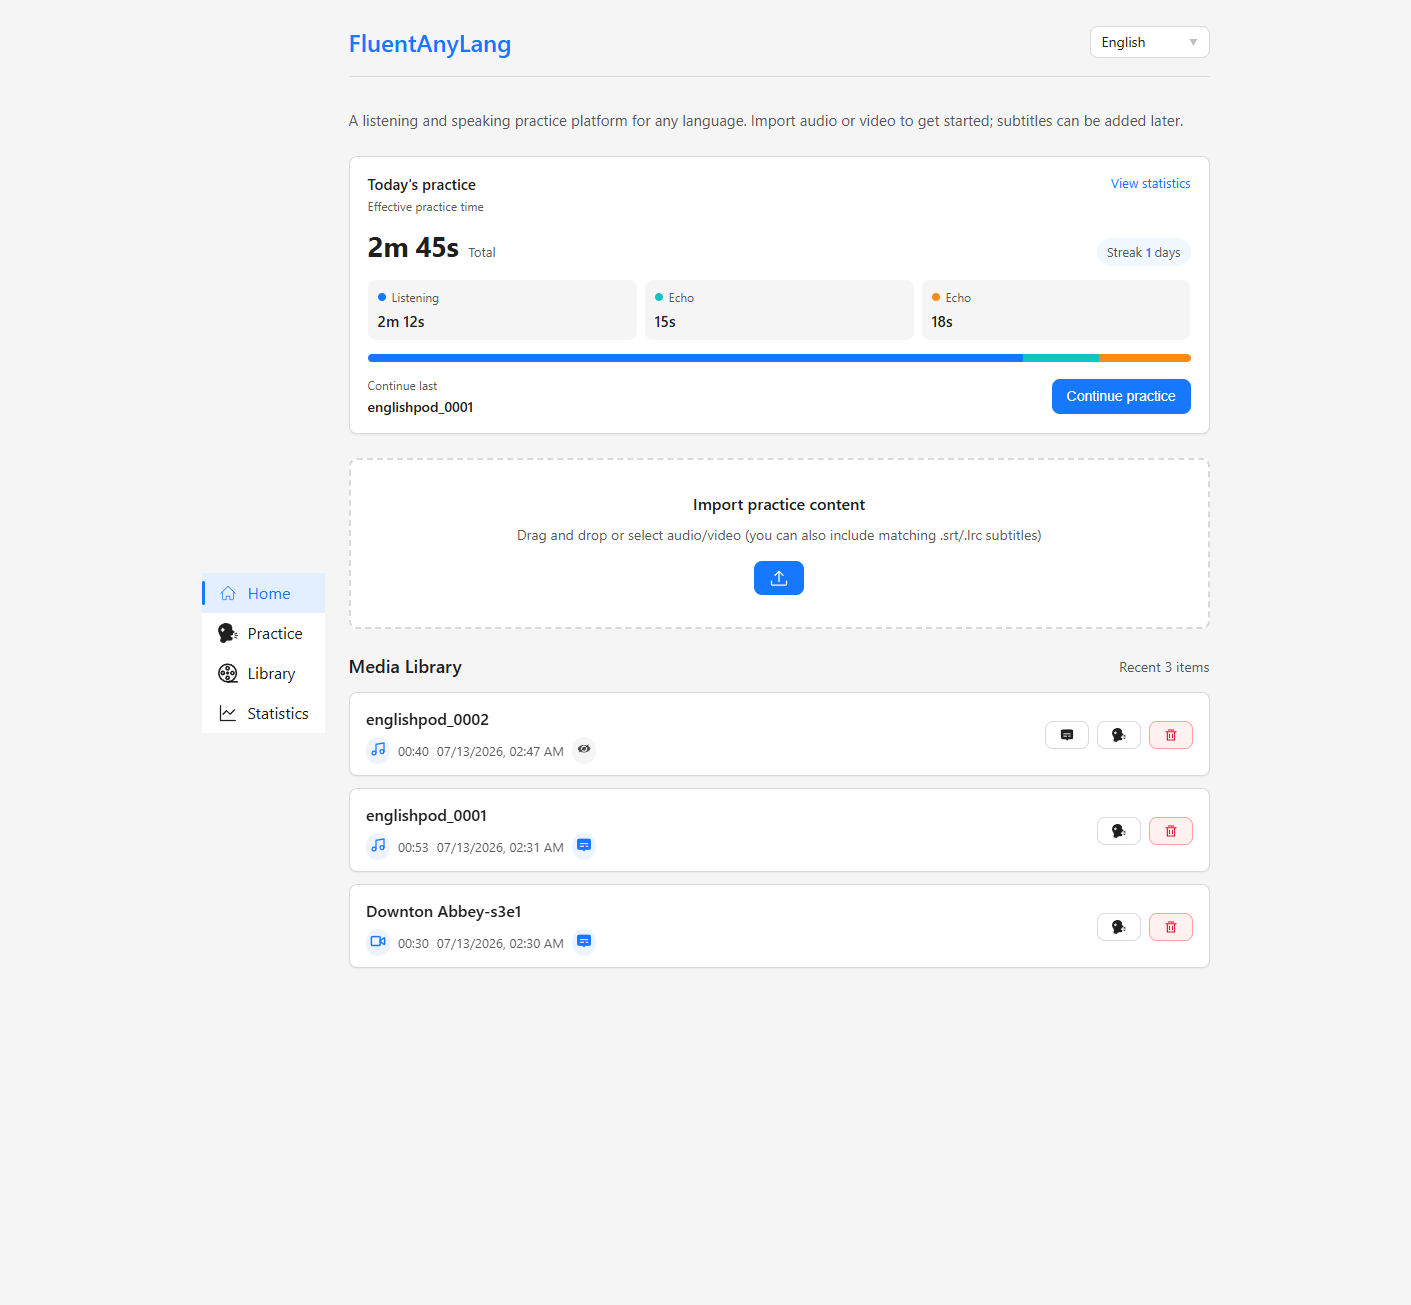
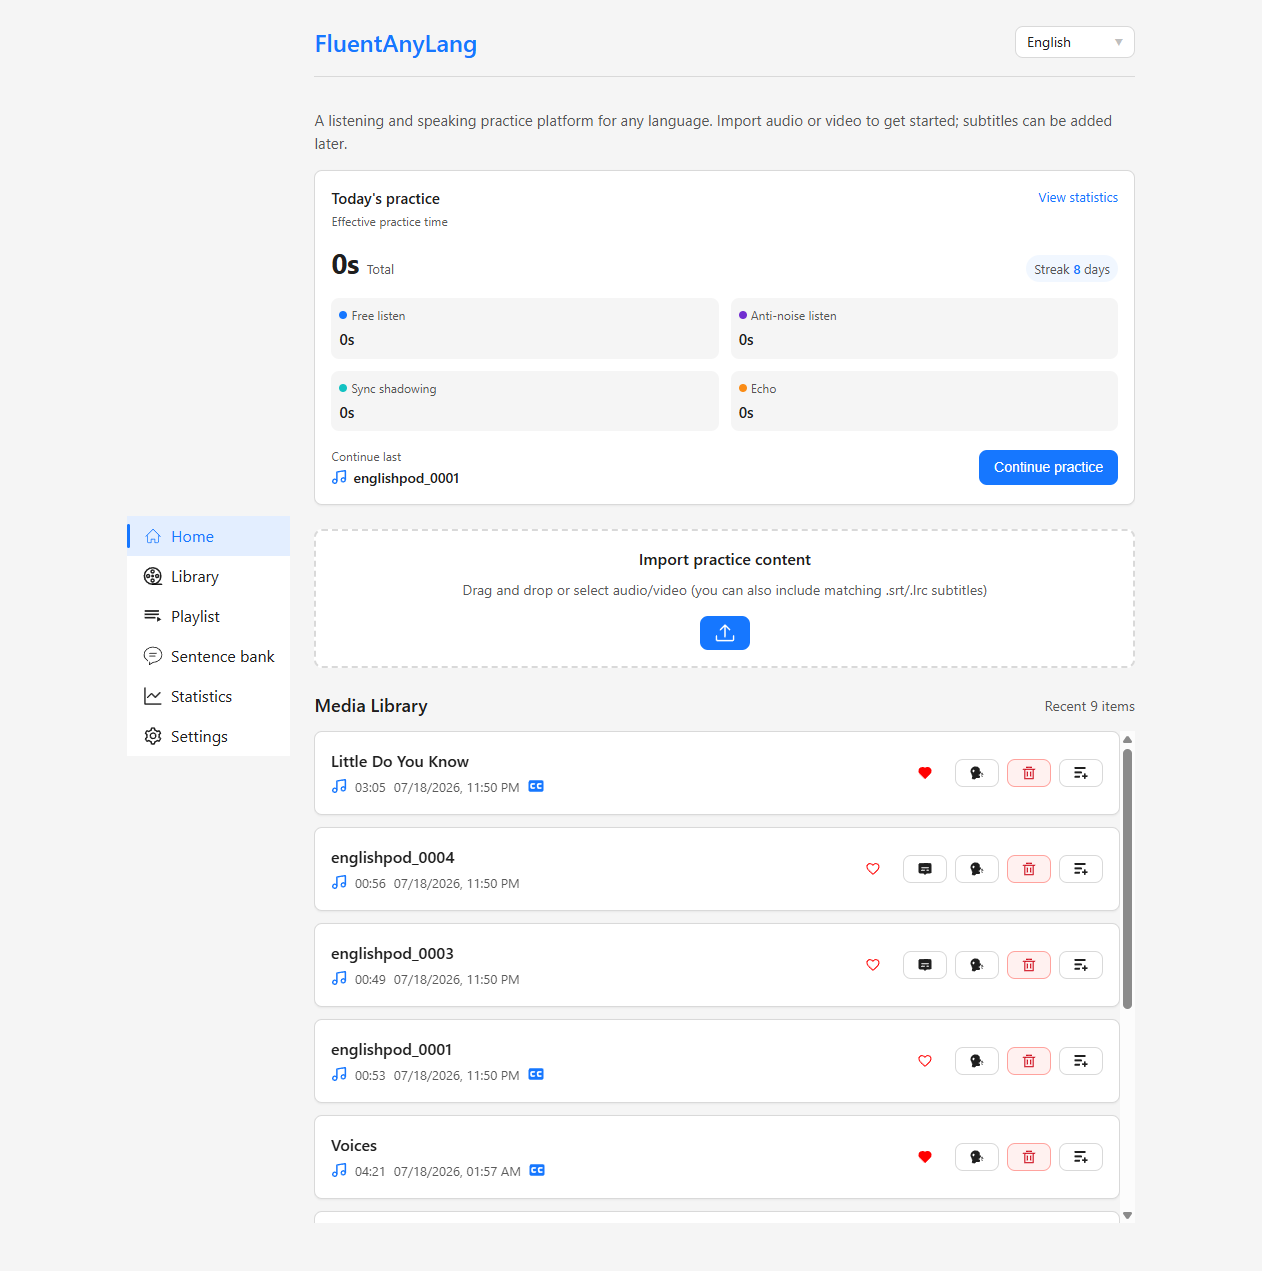
chore(release): bump version to 0.2.0 and update CHANGELOG

diff --git a/src/components/player/practice-view.test.ts b/src/components/player/practice-view.test.ts
@@ -162,6 +162,8 @@ describe('practice-view', () => {
   }
 
   async function switchToEchoMode(el: PracticeViewInternals) {
+    await settleView(el);
+
     const speakingButton = Array.from(el.shadowRoot!.querySelectorAll('ui-button')).find((button) =>
       button.textContent?.includes('口语'),
     );
@@ -169,10 +171,12 @@ describe('practice-view', () => {
     await el.updateComplete;
 
     const echoButton = Array.from(el.shadowRoot!.querySelectorAll('ui-button')).find((button) =>
-      button.textContent?.includes('Echo'),
+      button.textContent?.includes('回声跟读'),
     );
+    expect(echoButton).toBeDefined();
     echoButton?.click();
     await el.updateComplete;
+    await settleView(el);
   }
 
   it('renders practice layout shell', async () => {
@@ -537,7 +541,7 @@ describe('practice-view', () => {
     await switchToEchoMode(el);
 
     const summary = el.shadowRoot!.querySelector('.tips-summary');
-    expect(summary?.textContent).toContain('字幕行麦克风');
+    expect(summary?.textContent).toContain('字幕行右侧【麦克风】');
     expect(
       Array.from(el.shadowRoot!.querySelectorAll('ui-button')).some((button) =>
         button.textContent?.includes('说明'),

diff --git a/README.md b/README.md
@@ -2,36 +2,63 @@
 
 **English** | [中文](./README.zh-CN.md)
 
-A listening and speaking practice web app for any language. Import your own audio or video, practice sentence by sentence, and keep everything on your device.
+Bring your own audio or video — any language, any material — and practice listening and speaking **sentence by sentence**. Everything stays on your device: no account, no cloud upload.
 
 **[Live Demo](https://fal.jimelijah.com/)** · [GitHub](https://github.com/Jim-Elijah/fluent-any-lang)
 
+## Why FluentAnyLang?
+
+Most language apps lock you into their curriculum. FluentAnyLang is built for **learners who already have the content they care about** — podcasts, dramas, lectures, songs — and want a focused loop of replay, shadowing, and self-review.
+
+- **Your materials, any language** — Import audio/video with `.srt` / `.lrc` subtitles (add later if needed). Bilingual lines are supported.
+- **Sentence-driven practice** — Jump, loop, or pause by subtitle line; speaking modes tie every take to the exact sentence.
+- **Local-first & private** — Media, recordings, and stats live in IndexedDB. Export a ZIP backup to migrate devices; nothing is uploaded to a server.
+- **Installable PWA** — Add to home screen or desktop; app shell works offline after the first visit. Updates are prompted so practice is not interrupted mid-session.
+
 ## Features
 
-- **Any language, your materials** — Import audio/video (optionally with matching `.srt` / `.lrc` subtitles). Subtitles can be added later.
-- **Listening practice** — Playback speed, single-sentence pause, sentence loop, sleep timer, and more.
-- **Speaking practice**
-  - **Shadowing** — Synchronized shadowing with recording and countdown cues.
-  - **Echo** — Hear the original line first, then record; keep multiple takes per sentence.
-- **Subtitle-driven workflow** — Jump by sentence, compare original audio with your recordings (including sync play).
-- **Media & recording libraries** — Search, sort, filter, and export.
-- **Practice statistics** — Effective practice time, streaks, mode mix, and trends (not wall-clock time).
-- **Local-first & private** — Media, subtitles, and recordings stay in your browser via IndexedDB; nothing is uploaded to a server.
-- **Installable PWA** — Add to your home screen or desktop; the app shell works offline after the first visit. Updates are prompted so practice is not interrupted mid-session.
-- **UI locales** — Simplified Chinese, English, Japanese, and Traditional Chinese (`@lit/localize`).
+### Listening
+
+- **Free listen** — Playback speed, volume, prev/next sentence, keyboard shortcuts.
+- **Anti-noise listen** — Mix up to 3 ambient noise tracks while listening; optional speed ladder advances after each play-through.
+- **Loop & pause** — Loop track or sentence; pause between sentences by fixed seconds or a percentage of line length.
+- **Sleep timer** — Stop after N minutes or when the current track ends.
+- **Flexible player** — Normal, fixed (floating bar), or mini layout for long sessions.
+
+### Speaking
+
+- **Sync Shadowing** — Record in sync with the original, with countdown cues and a live waveform.
+- **Echo** — Hear the line first, then record; keep multiple takes per sentence and pick the best.
+- **Compare takes** — Play source only, recording only, or **sync play** (sentence-aligned) with waveform review.
+
+### Library & progress
+
+- **Media, recordings & noise libraries** — Search, sort, filter, custom covers, and export.
+- **Playlists & favorites** — Group materials, reorder, and continue the last playlist from the home dashboard.
+- **Sentence bank** — Save individual lines (with clipped audio) and drill them later.
+- **Practice statistics** — Effective practice time (not wall-clock), streaks, mode mix, trends, and media ranking.
+
+### More
+
+- **UI locales** — Simplified Chinese, English, Japanese, and Traditional Chinese.
+- **Backup & migration** — ZIP export/import for recordings, sessions, sentence bank, playlists, settings, and optionally media.
 
 ## Screenshots
 
-![home](./docs/screenshots/home.png)
-![practice](./docs/screenshots/practice.png)
-![library](./docs/screenshots/library.png)
-![statistics](./docs/screenshots/statistics.png)
-
+![home-page](./docs/screenshots/home.png)
+![library-page](./docs/screenshots/library.png)
+![playlist-page](./docs/screenshots/playlist.png)
+![sentence-bank-page](./docs/screenshots/sentence-bank.png)
+![statistics-page](./docs/screenshots/statistics.png)
+![settings-page](./docs/screenshots/settings.gif)
 
 ![home-import-listen](./docs/screenshots/import-and-listen.gif)
 ![practice-listen-advanced-setting](./docs/screenshots/listen-advanced-setting.gif)
+![practive-anti-noise-listen](./docs/screenshots/anti-noise-listen.gif)
 ![practice-speak-shadowing](./docs/screenshots/shadowing.gif)
 ![practice-speak-echo](./docs/screenshots/echo.gif)
+![playlist](./docs/screenshots/playlist.gif)
+![sentence-bank](./docs/screenshots/sentence-bank.gif)
 
 
 ## How to use
@@ -45,7 +72,7 @@ No install required for everyday use. Prefer headphones for speaking practice, a
 
 ## Privacy
 
-FluentAnyLang is a client-side app. Practice content and recordings are stored locally in IndexedDB. Clearing site data in the browser removes them; export recordings if you need a backup.
+FluentAnyLang is a client-side app. Practice content and recordings are stored locally in IndexedDB. Clearing site data in the browser removes them — use the built-in ZIP backup if you need to migrate or keep a copy.
 
 ## Tech stack
 

diff --git a/README.zh-CN.md b/README.zh-CN.md
@@ -2,36 +2,63 @@
 
 [English](./README.md) | **中文**
 
-任意语言的听说练习 Web 应用。导入自己的音视频，按句练习，数据保存在本机浏览器中。
+导入自己的音视频——任意语言、任意素材——按句练习听说。数据只保存在本机：无需账号，不会上传。
 
 **[在线体验](https://fal.jimelijah.com/)** · [GitHub](https://github.com/Jim-Elijah/fluent-any-lang)
 
+## 为什么选 FluentAnyLang？
+
+多数语言 App 把你锁在自家课程里。FluentAnyLang 面向**已经拥有想练内容**的学习者——播客、剧集、讲座、歌曲——专注于重听、跟读与自我对照。
+
+- **自有材料、任意语言** — 导入音视频，配套 `.srt` / `.lrc` 字幕（也可稍后补充）；支持双语字幕。
+- **字幕驱动、按句练习** — 按句跳转、循环或句间暂停；口语模式的每一条录音都对齐到精确句子。
+- **本地优先、注重隐私** — 媒体、录音与统计经 IndexedDB 存于浏览器；支持 ZIP 备份迁移，不会上传到服务器。
+- **可安装 PWA** — 添加到主屏幕或桌面；首次访问后应用壳可离线打开。新版本会提示确认后再更新，避免打断练习。
+
 ## 功能特色
 
-- **任意语言、自有材料** — 导入音视频（可同时带匹配的 `.srt` / `.lrc` 字幕）；字幕也可稍后补充。
-- **听力练习** — 变速、循环模式、单句暂停模式、睡眠定时等。
-- **口语练习**
-  - **跟读（Shadowing）** — 同步跟读并录音，支持倒计时提醒。
-  - **回声（Echo）** — 先听原音再录音；每句可保留多条录音。
-- **字幕驱动工作流** — 按句跳转，原音与录音对照（含同步播放）。
-- **媒体库与录音库** — 搜索、排序、筛选与导出。
-- **练习统计** — 有效练习时长、连续天数、模式占比与趋势（非墙上时钟时间）。
-- **本地优先、注重隐私** — 媒体、字幕与录音经 IndexedDB 存于浏览器，不会上传到服务器。
-- **可安装 PWA** — 可添加到主屏幕或桌面；首次访问后应用壳可离线打开。新版本会提示确认后再更新，避免打断练习。
+### 听力
+
+- **自由听** — 变速、音量、上下句切换，支持快捷键。
+- **抗噪听** — 可叠加最多 3 路环境噪声；可选变速阶梯，每次播完自动升速。
+- **循环与暂停** — 整轨或单句循环；按固定秒数或句长百分比在句间暂停。
+- **睡眠定时** — 按分钟数停止，或播完当前媒体后停止。
+- **灵活播放器** — 普通、固定悬浮条、迷你三种布局，适合长时间练习。
+
+### 口语
+
+- **同步跟读（Sync shadowing）** — 与原音同步录音，支持倒计时提醒与实时波形。
+- **回声跟读（Echo）** — 先听原句再录音；每句可保留多条录音并择优复习。
+- **录音对照** — 仅原音、仅录音，或**同步播放**（按句对齐），配合波形回看。
+
+### 媒体库与进度
+
+- **媒体、录音与噪声库** — 搜索、排序、筛选，自定义封面与导出。
+- **播放列表与收藏** — 分组整理、拖拽排序，首页可继续上次的播放列表。
+- **句子库** — 从练习中收藏单句（含裁剪音频），稍后单独精练。
+- **练习统计** — 有效练习时长（非墙上时钟）、连续天数、模式占比、趋势与媒体排行。
+
+### 更多
+
 - **界面多语言** — 简体中文、英语、日语、繁体中文。
+- **备份与迁移** — ZIP 导出/导入录音、会话、句子库、播放列表、设置，媒体可选打包。
 
 ## 截图
 
-![home](./docs/screenshots/home.png)
-![practice](./docs/screenshots/practice.png)
-![library](./docs/screenshots/library.png)
-![statistics](./docs/screenshots/statistics.png)
-
+![home-page](./docs/screenshots/home.png)
+![library-page](./docs/screenshots/library.png)
+![playlist-page](./docs/screenshots/playlist.png)
+![sentence-bank-page](./docs/screenshots/sentence-bank.png)
+![statistics-page](./docs/screenshots/statistics.png)
+![settings-page](./docs/screenshots/settings.gif)
 
 ![home-import-listen](./docs/screenshots/import-and-listen.gif)
 ![practice-listen-advanced-setting](./docs/screenshots/listen-advanced-setting.gif)
+![practive-anti-noise-listen](./docs/screenshots/anti-noise-listen.gif)
 ![practice-speak-shadowing](./docs/screenshots/shadowing.gif)
 ![practice-speak-echo](./docs/screenshots/echo.gif)
+![playlist](./docs/screenshots/playlist.gif)
+![sentence-bank](./docs/screenshots/sentence-bank.gif)
 
 
 ## 使用方式
@@ -45,7 +72,7 @@
 
 ## 隐私说明
 
-FluentAnyLang 为纯前端应用。练习内容与录音保存在本地 IndexedDB。清除网站数据会删除它们；如需备份，请先导出录音。
+FluentAnyLang 为纯前端应用。练习内容与录音保存在本地 IndexedDB。清除网站数据会删除它们；如需迁移或备份，请使用内置 ZIP 备份。
 
 ## 技术栈
 
@@ -66,6 +93,7 @@ pnpm dev
 | --- | --- |
 | `pnpm build` | 本地化构建、类型检查与生产构建 |
 | `pnpm test` | 单元测试 |
+| `pnpm test:e2e` | Playwright 端到端测试 |
 | `pnpm lint` | ESLint |
 | `pnpm localize:extract` / `pnpm localize:build` | 提取 / 构建文案 |
 

diff --git a/CHANGELOG.md b/CHANGELOG.md
@@ -1,3 +1,23 @@
+## [0.2.0](https://github.com/Jim-Elijah/fluent-any-lang/compare/v0.1.0...v0.2.0) (2026-07-19)
+
+### Features
+
+* add a new ui-drawer component ([84f0570](https://github.com/Jim-Elijah/fluent-any-lang/commit/84f0570119d73f865df9e8476f8a3039da605cec))
+* add auto-close functionality to tooltip component ([608dfcf](https://github.com/Jim-Elijah/fluent-any-lang/commit/608dfcf945a31d4935662e107bd1de270709131a))
+* add recording session dock for echo and shadowing ([0659253](https://github.com/Jim-Elijah/fluent-any-lang/commit/0659253673ffd981012d124e1faa3dcfcae73fd4))
+* enhance media player setting layout ([53b20c7](https://github.com/Jim-Elijah/fluent-any-lang/commit/53b20c7ebba858bd57fd7f9e62208e47babde55a))
+* enhance UI and error messages with localized strings ([d32d6a1](https://github.com/Jim-Elijah/fluent-any-lang/commit/d32d6a12d73598ea598ec757d9fd5b3d4f1058e3))
+* **hotkeys:** add keyboard shortcuts for practice and recording preview ([0456439](https://github.com/Jim-Elijah/fluent-any-lang/commit/04564393be026ff2421fe6a623f5812629290003))
+* **playlists:** add playlist management with favorites and practice integration ([3df08f0](https://github.com/Jim-Elijah/fluent-any-lang/commit/3df08f0459812941066eb0f2c7b41094c3004011))
+* **practice:** add discrimination mode with noise library and rate ladder ([561d26d](https://github.com/Jim-Elijah/fluent-any-lang/commit/561d26d9682c82d430d28f245a6d77dc49c30339))
+* **practice:** enhance media tracking with playlist integration ([6479dd0](https://github.com/Jim-Elijah/fluent-any-lang/commit/6479dd0ed719ee39745f0c54d41c2e6a69e2eb33))
+* **practice:** lock navigation during speaking sessions ([46e2aa5](https://github.com/Jim-Elijah/fluent-any-lang/commit/46e2aa5142bffaf9f2acbe2e2a39c6132d31c6d5))
+* **preview:** enhance recording review with audio focus and volume controls ([7bf7a55](https://github.com/Jim-Elijah/fluent-any-lang/commit/7bf7a555d03815fcd7ff3ee976f0cad2c822303b))
+* **pwa:** add installable PWA with offline shell and update prompts ([da38040](https://github.com/Jim-Elijah/fluent-any-lang/commit/da38040cbf7abbf6ee33fd8e76dae944dafa3513))
+* **sentences:** add sentence bank with clip storage and dedicated practice ([b77a9a4](https://github.com/Jim-Elijah/fluent-any-lang/commit/b77a9a4074ef1120fdd00991f16626819da59105))
+* **settings:** add local error logging and diagnostics export ([1532654](https://github.com/Jim-Elijah/fluent-any-lang/commit/153265409c84adebb35da9df57772dcbf51fce58))
+* **settings:** add preferences, practice limits, and data backup ([96ca784](https://github.com/Jim-Elijah/fluent-any-lang/commit/96ca784f4241867d1bb0c07a4a92dac8e211b7af))
+
 ## 0.1.0 (2026-07-12)
 
 ### Features